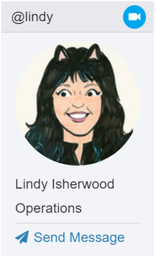
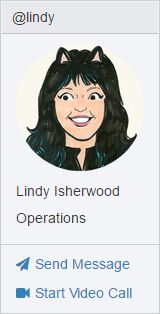
Updated video call instructions and graphic

diff --git a/source/deployment/webrtc.rst b/source/deployment/webrtc.rst
@@ -5,7 +5,7 @@ Mattermost supports an early preview of video and audio calling option using a s
 
 The feature is a working prototype for community development and not recommended for production. It has been tested on Chrome and Firefox running on Mac and Windows and the Mattermost Mac and Windows Apps using a Mattermost server running in SSL mode.
 
-.. note:: This feature will be replaced by a plug-in architecture allowing multiple video and audio calling providers to connect into Mattermost, and features described in this section will be re-written as a plug-in. 
+.. note:: This feature will be replaced by a plug-in architecture allowing multiple video and audio calling providers to connect into Mattermost, and features described in this section will be re-written as a plug-in.
 
 Configuring video and audio calls
 ------------------------------------------
@@ -26,11 +26,11 @@ After enabling the feature in the System Console by a System Administrator:
 
 2. Initiate a call with another user by either:
 
-    Clicking the video icon on a user's profile popover, which appears after clicking their profile picture or name on the center channel or right hand sidebar
+    Clicking **Start Video Call** on a user's profile popover, which appears after clicking their profile picture or name on the center channel or right hand sidebar.
 
     .. image:: ../images/webrtc-popover.png
 
-    Clicking the video icon on the channel header of a direct message channel with that user
+    Clicking the video icon on the channel header of a direct message channel with that user.
 
     .. image:: ../images/webrtc-header.png
 
